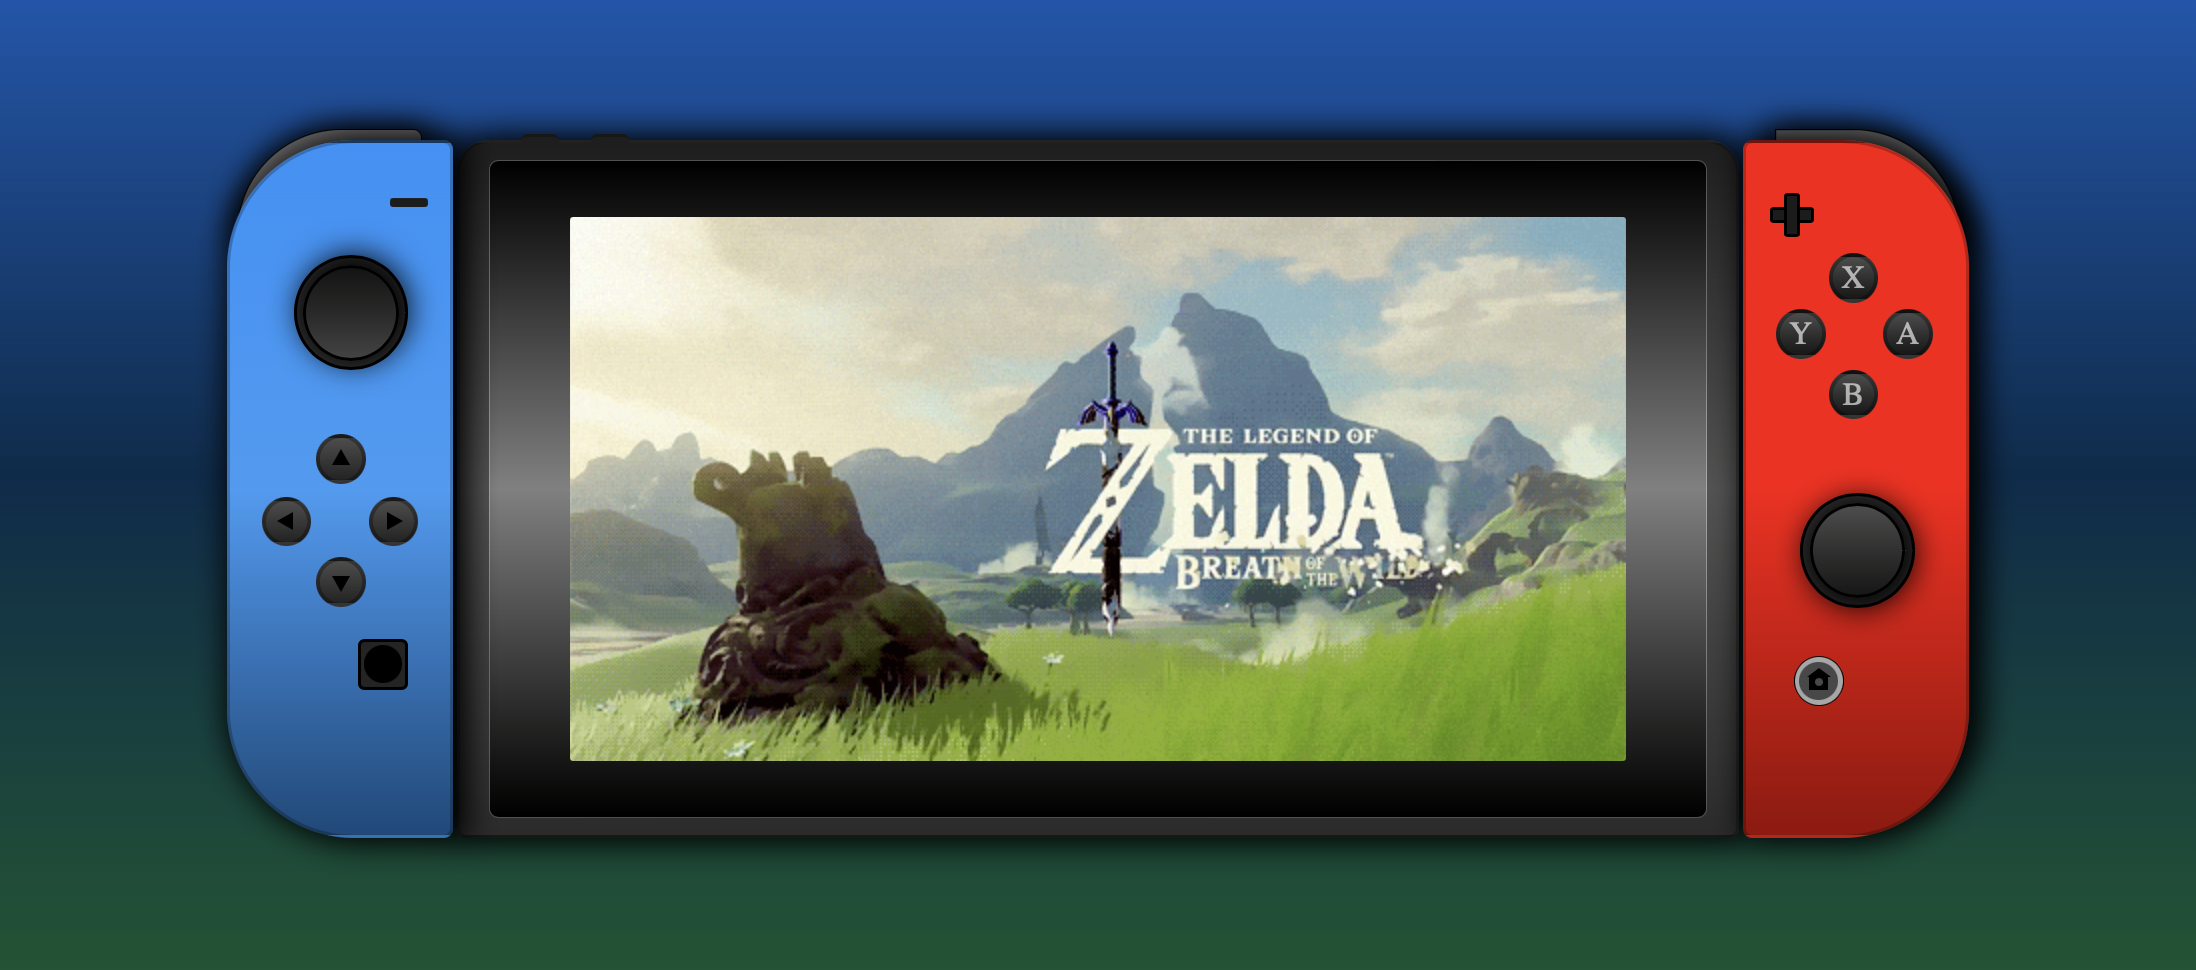
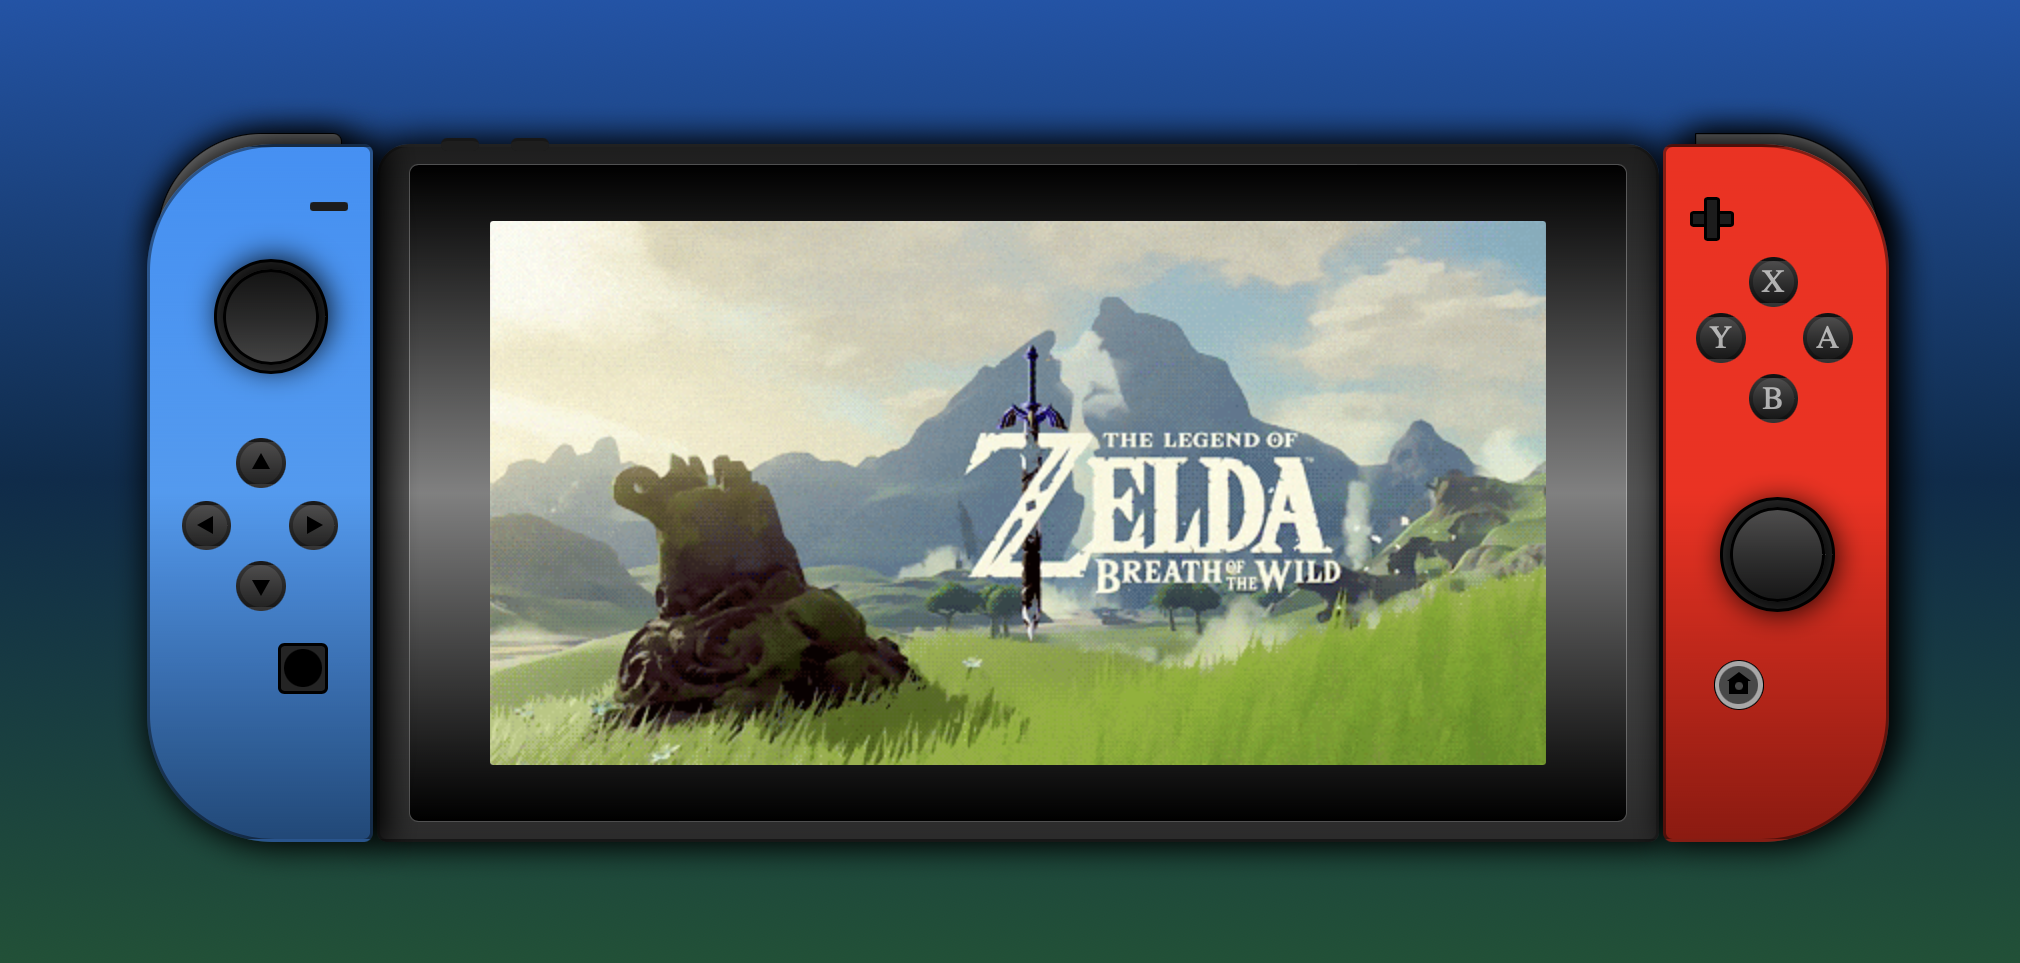
Retocando bordes inferiores mandos laterales

Changed region(s): [[0.0624, 0.0935, 0.9668, 0.9034]]

diff --git a/css/styles.css b/css/styles.css
@@ -12,7 +12,7 @@ body {
 
 }
 #consola{
-    height:26em;
+    height:26.2em;
     width: 54.6em;
     display: flex;
     flex-direction: column;
@@ -43,7 +43,7 @@ body {
     height: 21.6em;
     width: 6.9em;
     background: linear-gradient(rgb(28, 146, 250), rgb(53, 156, 245), rgb(15, 73, 123));
-    border: 0.1em solid rgba(0, 0, 0, 0.233);
+    border: 0.1em solid rgba(0, 0, 0, 0.42);
     margin-right: 0.1em;
     border-radius: 4em 0.3em 0.3em 4em;
     box-shadow: 0.2em 0em 1em 0.2em black; 
@@ -53,7 +53,7 @@ body {
     height: 21.6em;
     width: 6.9em;
     background: linear-gradient(red, rgb(255, 0, 0), rgb(152, 1, 1));
-    border: 0.1em solid rgba(0, 0, 0, 0.233);
+    border: 0.1em solid rgba(0, 0, 0, 0.436);
     margin-left: 0.1em;
     border-radius: 0.3em 4em 4em 0.3em;
     box-shadow: 0.2em 0em 1em 0.2em black;
